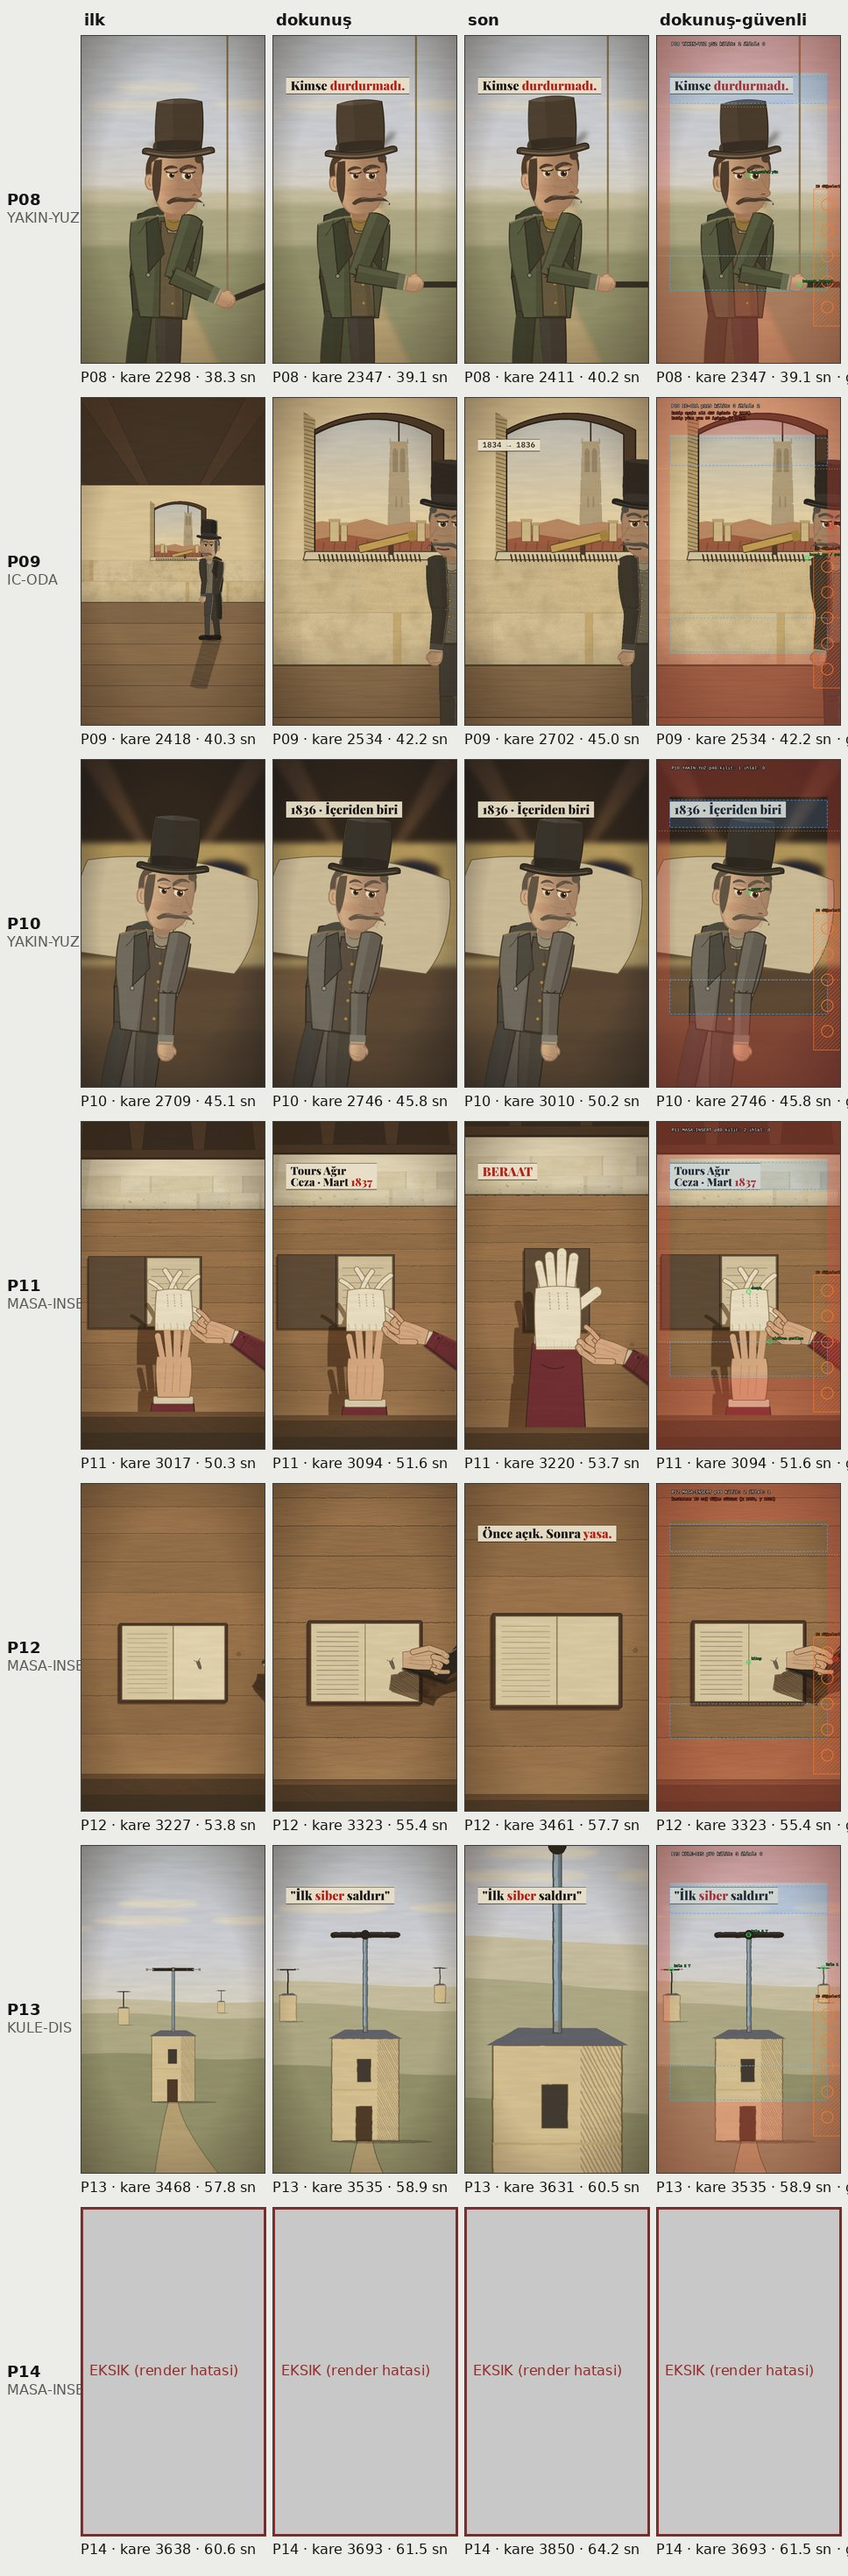
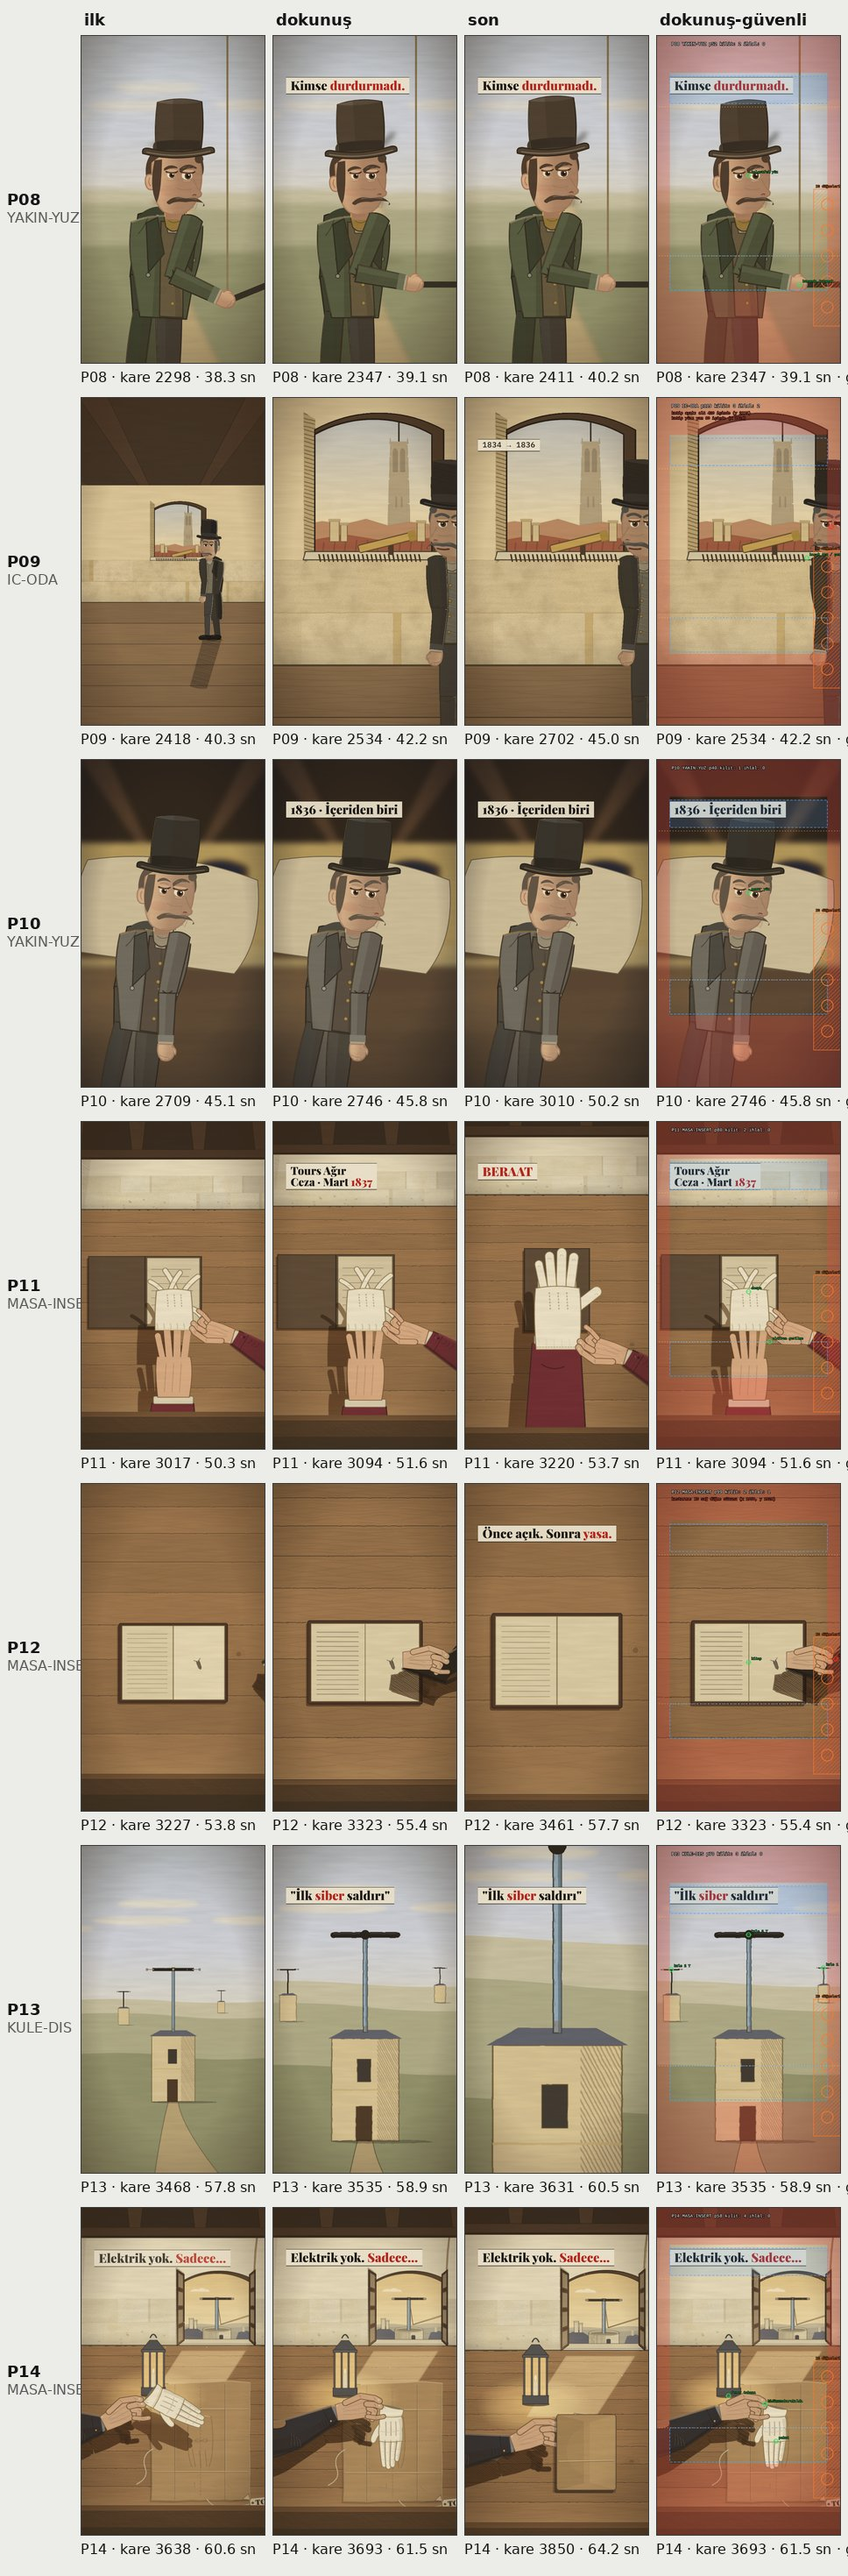
Kit: boolean anahtarlar basamaklı (P14 render hatası); P14 kareleri + kontrol sayfaları
Claude-Session: https://claude.ai/code/session_016TQpGYPviqqYuFeBgNMpFi

Changed region(s): [[0.093, 0.836, 1.0, 0.9908]]

diff --git a/src/kit/zaman.ts b/src/kit/zaman.ts
@@ -11,6 +11,15 @@ export const cl = { extrapolateLeft: "clamp", extrapolateRight: "clamp" } as con
 export const deger = (v: Sayi | undefined, kare: number[] | undefined, p: number, varsayilan = 0, egri: (t: number) => number = INOUT): number => {
   if (v === undefined) return varsayilan;
   if (typeof v === "number") return v;
+  if (typeof v === "boolean") return v ? 1 : 0;
+  // Boolean anahtarlar (ör. ipCozuk) basamaklı: son geçilen anahtarın değeri, 0/1.
+  if ((v as unknown[]).some((x) => typeof x === "boolean")) {
+    const b = (v as unknown[]).map((x) => (x ? 1 : 0));
+    if (b.length === 1 || !kare || kare.length < 2) return b[0];
+    let i = 0;
+    while (i + 1 < kare.length && p >= kare[i + 1]) i++;
+    return b[i];
+  }
   if (v.length === 1 || !kare || kare.length < 2) return v[0];
   return interpolate(p, kare, v, { ...cl, easing: egri });
 };

diff --git a/bolumler/blanc-kardesler/katki-raporu.md b/bolumler/blanc-kardesler/katki-raporu.md
@@ -1093,3 +1093,8 @@ Her ajan görev sonunda buraya ekler (bkz. CLAUDE.md).
 - Ne yaptım: `Plan.ses?: {dosya, kare, db?}[]` (tipler.ts); Bolum.tsx'te plan Sequence'i içinde `@remotion/media` Audio, `kare`'den başlar, volume = 10^(db/20), plan sonunda kesilir; bolum_dogrula.mjs: dosya yok = HATA, ffprobe ile plan sonundan taşma + aynı planda çakışma = UYARI (ffprobe yoksa uyarı); KATALOG.md'ye alan eklendi.
 - Dokunduğum dosyalar: src/kit/tipler.ts, src/kit/Bolum.tsx, tools/bolum_dogrula.mjs, src/kit/KATALOG.md. tsc temiz; bolum.json'a dokunulmadı.
 - Not: Audio, projede zaten kullanılan `@remotion/media` paketinden. Taşan ses kesilir (sonraki plana akmaz) — plan aşırı sesler gerekirse ayrı alan gerekir.
+
+## teknisyen · 2026-11-07 · Blanc storyboard v3 kontrol kareleri tamamlama
+- Ne yaptım / komutlar: eksik kareleri (P06-son, P06-temas-guvenli, P07–P14) `npx remotion still Bolum` ile render ettim (scale 0.5, guvenli false/true); kontrol sayfaları python3 PIL ile üretildi (sayfa-1/2.jpg, 968x2939, q85).
+- Üretilen dosyalar: storyboard-v3/kareler/ altında 34 yeni PNG; storyboard-v3/sayfa-1.jpg, sayfa-2.jpg.
+- Hatalar ve çözümler: P14 dört karesi (ilk, dokunus, son, temas-guvenli) "Booleans can only be interpolated using Easing.step1" hatası verdi (src/kit/zaman.ts:14 ← src/kit/props/index.tsx:137 ← src/kit/sablonlar/MasaInsert.tsx:61). Neden: bolum.json P14 paket.durum.ipCozuk boolean dizisi. Düzeltilmedi (kod/veri kararı motion/yönetmen); sayfa-2'de EKSIK olarak işaretli.
